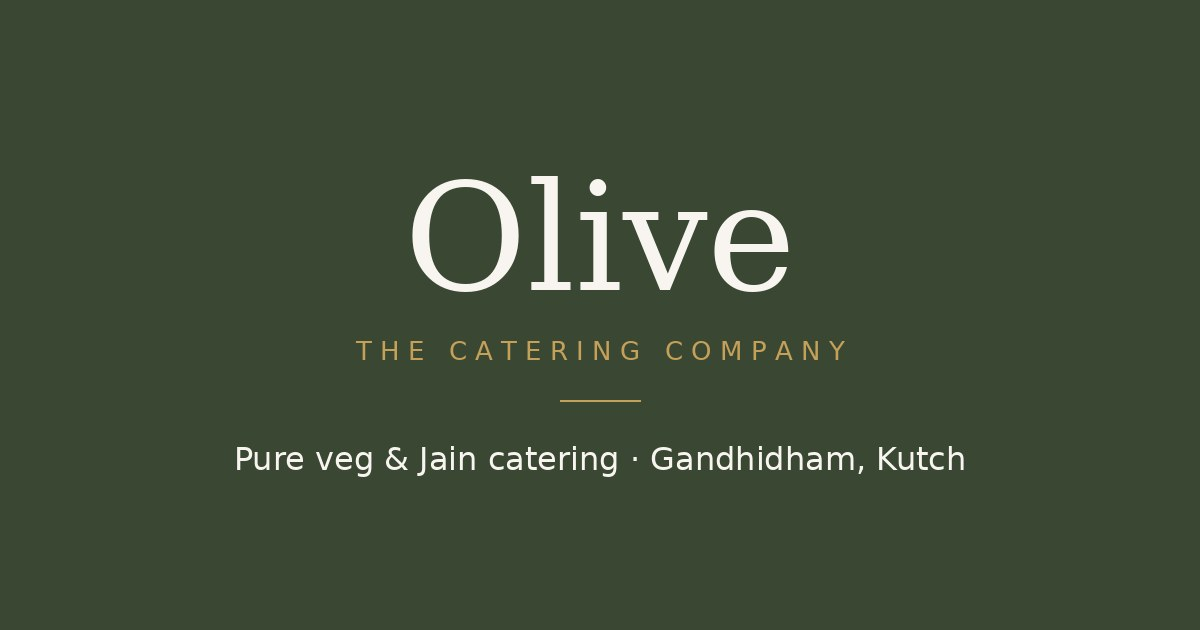
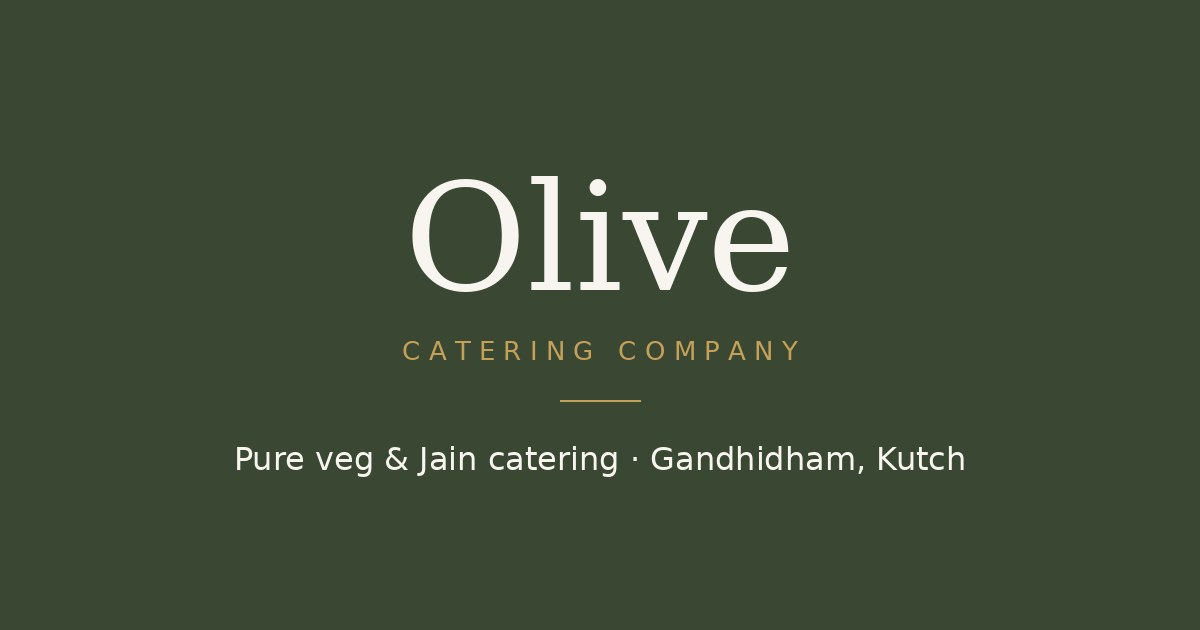
Use exact business name: Olive Catering Company
Claude-Session: https://claude.ai/code/session_01XYz7mrCUEpoZgrHPJ1AtBQ

Changed region(s): [[0.2775, 0.5429, 0.7092, 0.573]]

diff --git a/app/templates/home.php b/app/templates/home.php
@@ -72,7 +72,7 @@ $announce = content('announcement', []);
   <div class="wrap top__row">
     <a class="brand" href="#top" aria-label="<?= e($name) ?> home">
       <span class="brand__word">Olive</span>
-      <span class="brand__tag">The Catering Company</span>
+      <span class="brand__tag">Catering Company</span>
     </a>
     <nav class="nav" id="nav" aria-label="Main">
       <a href="#about">About</a>
@@ -155,7 +155,7 @@ $announce = content('announcement', []);
   <section class="menu" id="menu">
     <div class="wrap">
       <div class="menucard">
-        <p class="menucard__top">Olive &middot; The Catering Company</p>
+        <p class="menucard__top">Olive Catering Company</p>
         <h2 class="menucard__title">Our menus &amp; specialties</h2>
         <span class="menucard__rule" aria-hidden="true"></span>
         <ul class="menucard__list">
@@ -358,7 +358,7 @@ $announce = content('announcement', []);
 <footer class="foot">
   <div class="wrap foot__grid">
     <div>
-      <p class="brand brand--light"><span class="brand__word">Olive</span><span class="brand__tag">The Catering Company</span></p>
+      <p class="brand brand--light"><span class="brand__word">Olive</span><span class="brand__tag">Catering Company</span></p>
       <p class="foot__text"><?= e(content('footer.text', '')) ?></p>
     </div>
     <nav aria-label="Footer">

diff --git a/thank-you.php b/thank-you.php
@@ -42,7 +42,7 @@ window.dataLayer.push(<?= json_encode([
 <?php require __DIR__ . '/partials/gtm-body.php'; ?>
 <main class="hold">
   <div class="hold__inner">
-    <p class="hold__mark"><span class="hold__word">Olive</span><span class="hold__tag">The Catering Company</span></p>
+    <p class="hold__mark"><span class="hold__word">Olive</span><span class="hold__tag">Catering Company</span></p>
     <span class="hold__rule" aria-hidden="true"></span>
     <h1 class="hold__headline">Thank you, we've received your enquiry.</h1>
     <p class="hold__sub">Our team will call you shortly. For a faster reply, send us a message on WhatsApp.</p>

diff --git a/404.php b/404.php
@@ -17,7 +17,7 @@ $page_type = '404';
 <?php require __DIR__ . '/partials/gtm-body.php'; ?>
 <main class="hold">
   <div class="hold__inner">
-    <p class="hold__mark"><span class="hold__word">Olive</span><span class="hold__tag">The Catering Company</span></p>
+    <p class="hold__mark"><span class="hold__word">Olive</span><span class="hold__tag">Catering Company</span></p>
     <span class="hold__rule" aria-hidden="true"></span>
     <h1 class="hold__headline">This page isn't on the menu.</h1>
     <p class="hold__sub">The page you're looking for doesn't exist or has moved.</p>

diff --git a/app/render.php b/app/render.php
@@ -79,7 +79,6 @@ function schema_json(): string
         '@type' => 'FoodEstablishment',
         '@id' => canonical_url('/#business'),
         'name' => $b['name'] ?? 'Olive Catering Company',
-        'alternateName' => 'Olive, The Catering Company',
         'description' => content('footer.text', ''),
         'url' => canonical_url('/'),
         'image' => canonical_url('/assets/img/og-image.jpg'),

diff --git a/index.php b/index.php
@@ -40,7 +40,7 @@ $name = (string) ($b['name'] ?? 'Olive Catering Company');
   <div class="hold__inner">
     <p class="hold__mark" aria-label="<?= e($name) ?>">
       <span class="hold__word">Olive</span>
-      <span class="hold__tag">The Catering Company</span>
+      <span class="hold__tag">Catering Company</span>
     </p>
 
     <span class="hold__rule" aria-hidden="true"></span>
